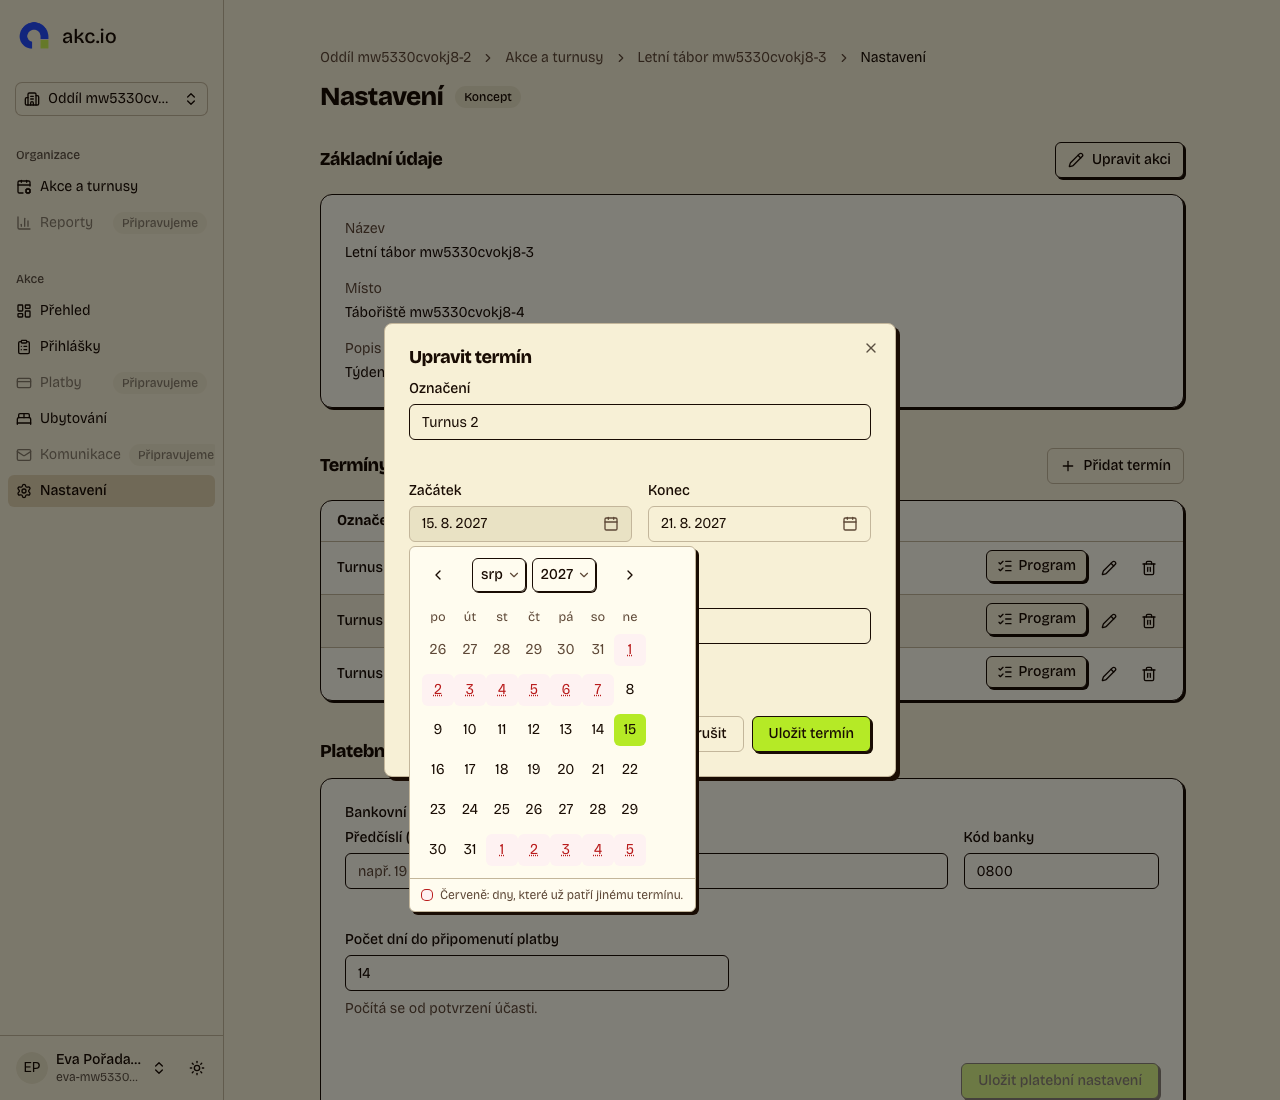
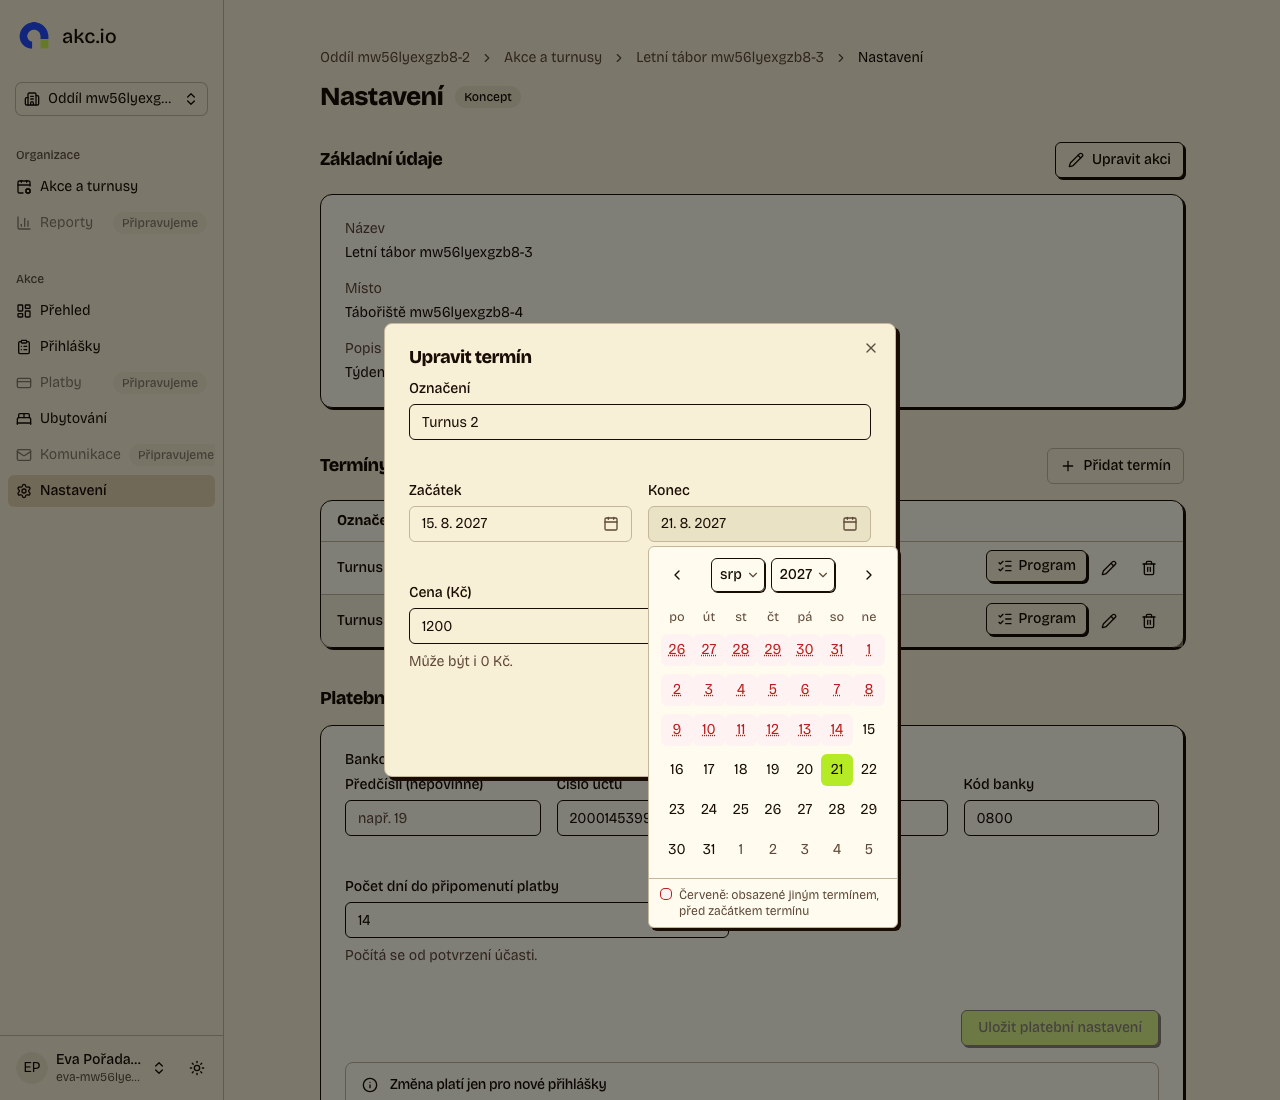
feat(events): mark days outside the term range in the date picker (S3-C02)

diff --git a/apps/frontend/src/components/ui/date-picker.tsx b/apps/frontend/src/components/ui/date-picker.tsx
@@ -28,6 +28,10 @@ type DatePickerProps = Omit<React.ComponentProps<typeof Button>, "value" | "onCh
   placeholder?: string
   /** Days marked as taken (`yyyy-MM-dd`, both ends included); they stay selectable. */
   markedRanges?: { from: string; to: string }[]
+  /** Days before this date are marked too (`yyyy-MM-dd`), e.g. before a term's start. */
+  markedBefore?: string
+  /** Days after this date are marked too (`yyyy-MM-dd`), e.g. after a term's end. */
+  markedAfter?: string
   /** Explains the marked days under the calendar. */
   markedLegend?: string
 }
@@ -42,16 +46,24 @@ function DatePicker({
   placeholder = "Vyberte datum",
   markedRanges = [],
   markedLegend,
+  markedBefore,
+  markedAfter,
   className,
   ...props
 }: DatePickerProps) {
   const [open, setOpen] = React.useState(false)
   const selected = value ? toDate(value) : undefined
-  const marked = markedRanges.flatMap(({ from, to }) => {
-    const start = toDate(from)
-    const end = toDate(to)
-    return start && end ? [{ from: start, to: end }] : []
-  })
+  const before = markedBefore ? toDate(markedBefore) : undefined
+  const after = markedAfter ? toDate(markedAfter) : undefined
+  const marked = [
+    ...markedRanges.flatMap(({ from, to }) => {
+      const start = toDate(from)
+      const end = toDate(to)
+      return start && end ? [{ from: start, to: end }] : []
+    }),
+    ...(before ? [{ before }] : []),
+    ...(after ? [{ after }] : []),
+  ]
 
   return (
     <Popover
@@ -96,10 +108,10 @@ function DatePicker({
           }}
         />
         {marked.length > 0 && markedLegend ? (
-          <p className="flex items-center gap-2 border-t px-3 py-2 text-xs text-muted-foreground">
+          <p className="flex w-0 min-w-full items-start gap-2 border-t px-3 py-2 text-xs text-muted-foreground">
             <span
               aria-hidden
-              className="size-2.5 shrink-0 rounded-sm bg-destructive-subtle ring-1 ring-destructive-subtle-foreground"
+              className="mt-0.5 size-2.5 shrink-0 rounded-sm bg-destructive-subtle ring-1 ring-destructive-subtle-foreground"
             />
             {markedLegend}
           </p>

diff --git a/apps/frontend/src/features/events/components/TermForm.tsx b/apps/frontend/src/features/events/components/TermForm.tsx
@@ -63,7 +63,8 @@ type TermFormProps = {
   onSubmit: (input: TermInput) => void | Promise<void>
 }
 
-const OCCUPIED_LEGEND = "Červeně: dny, které už patří jinému termínu."
+// Names every reason a day is marked, e.g. "Červeně: obsazené jiným termínem, před začátkem termínu".
+const legend = (reasons: (string | null)[]) => `Červeně: ${reasons.filter(Boolean).join(", ")}`
 
 // Adding and editing a term share this form. It has no capacity input:
 // capacity comes from rooms and beds (S2-05).
@@ -80,6 +81,9 @@ export function TermForm({
     defaultValues: initialValues,
   })
   const { setError } = form
+  const [startDate, endDate] = form.watch(["startDate", "endDate"])
+  const hasOccupied = (occupiedRanges?.length ?? 0) > 0
+  const taken = hasOccupied ? "obsazené jiným termínem" : null
 
   useEffect(() => {
     if (fieldError) {
@@ -141,7 +145,8 @@ export function TermForm({
                     disabled={field.disabled}
                     ref={field.ref}
                     markedRanges={occupiedRanges}
-                    markedLegend={OCCUPIED_LEGEND}
+                    markedAfter={endDate || undefined}
+                    markedLegend={legend([taken, endDate ? "po konci termínu" : null])}
                   />
                 </FormControl>
                 <FormMessage />
@@ -162,7 +167,8 @@ export function TermForm({
                     disabled={field.disabled}
                     ref={field.ref}
                     markedRanges={occupiedRanges}
-                    markedLegend={OCCUPIED_LEGEND}
+                    markedBefore={startDate || undefined}
+                    markedLegend={legend([taken, startDate ? "před začátkem termínu" : null])}
                   />
                 </FormControl>
                 <FormMessage />

diff --git a/apps/frontend/src/components/ui/date-picker.test.tsx b/apps/frontend/src/components/ui/date-picker.test.tsx
@@ -21,4 +21,25 @@ describe("DatePicker", () => {
     await userEvent.selectOptions(years, nextYear)
     expect(years).toHaveValue(nextYear)
   })
+
+  it("marks days before a limit and days of taken ranges, keeping them selectable", async () => {
+    render(
+      <DatePicker
+        aria-label="Konec"
+        value="2027-08-10"
+        markedBefore="2027-08-05"
+        markedRanges={[{ from: "2027-08-20", to: "2027-08-22" }]}
+        markedLegend="Červeně: nelze"
+        onChange={vi.fn()}
+      />,
+    )
+    await userEvent.click(screen.getByRole("button", { name: "Konec" }))
+
+    const isMarked = (day: string) =>
+      document.querySelector(`td[data-day="${day}"]`)!.className.includes("bg-destructive-subtle")
+    expect(isMarked("2027-08-03")).toBe(true)
+    expect(isMarked("2027-08-21")).toBe(true)
+    expect(isMarked("2027-08-08")).toBe(false)
+    expect(screen.getByText("Červeně: nelze")).toBeInTheDocument()
+  })
 })
